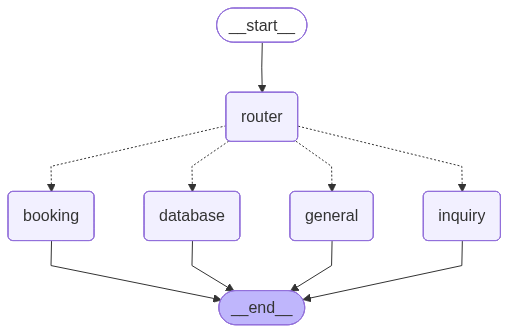
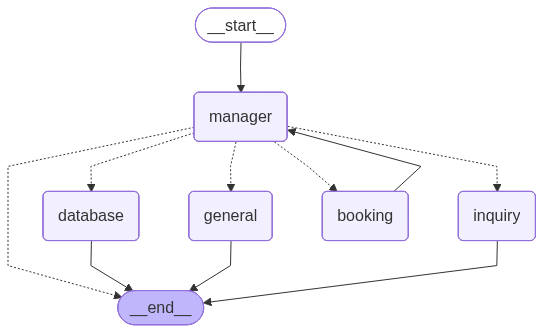
fix: recursively calling general, database, and inquiry node

diff --git a/core/graph/agent/manager.py b/core/graph/agent/manager.py
@@ -1,6 +1,7 @@
 from pydantic import BaseModel, Field
 from typing import Literal
 from langchain_core.prompts import ChatPromptTemplate
+from langchain_core.messages import AIMessage
 
 from core.services.deepinfra.factory import make_deepinfra_client
 from core.graph.state import GraphState
@@ -8,7 +9,7 @@ from core.graph.state import GraphState
 class Decision(BaseModel):
     next_step: Literal["inquiry", "database", "booking", "general", "FINISH"] = Field(
         ...,
-        description="The worker node to call next, or `FINISH` if the AI should stop and wait for user input."
+        description="Langkah selanjutnya atau 'FINISH'."
     )
 
 class ManagerAgent:
@@ -16,24 +17,26 @@ class ManagerAgent:
         self.llm = make_deepinfra_client(model_id).model
         self.structured_llm = self.llm.with_structured_output(Decision)
 
-        self.system_prompt = """You are the Supervisor (Manager) of a Dermatology Clinic AI.
-        You manage a team of workers:
-        1. **inquiry**: Answers questions about prices, treatments, and general info.
-        2. **database**: Checks real-time doctor schedules and appointment status.
-        3. **booking**: Handles the appointment creation process (collects Name, Date, etc.).
-        4. **general**: Handles greetings and small talk.
+        self.system_prompt = """Anda adalah Supervisor (Manager) AI Klinik.
+        
+        TUGAS ANDA:
+        Memutuskan siapa yang berbicara selanjutnya berdasarkan pesan TERAKHIR.
 
-        CONTEXT:
-        Booking Active: {booking_status}
+        PEKERJA:
+        - inquiry, database, booking, general.
+        - FINISH: Gunakan ini untuk berhenti dan menunggu input user.
 
-        YOUR GOAL:
-        Decide the NEXT step based on the conversation history.
+        ATURAN PENTING UNTUK MENCEGAH LOOP:
+        1. **CEK PESAN TERAKHIR**:
+           - Jika pesan terakhir adalah dari **AI (Assistant)**: Outputkan **FINISH**.
+           - (Kecuali jika Anda perlu memanggil agen lain secara berantai, misal: User tanya harga DAN booking).
+        
+        2. **JANGAN ULANGI**:
+           - Jika user berkata "Halo" dan AI sudah menjawab "Halo", JANGAN panggil 'general' lagi. Outputkan **FINISH**.
 
-        RULES:
-        - If the last message was a question from a worker (e.g., Booking asked "What is your name?"), output **FINISH** to wait for the user.
-        - If the user asks multiple things (e.g., "Price and Book"), schedule the **inquiry** first, then the **booking**.
-        - If 'Booking Active' is TRUE, prioritize **booking** UNLESS the user asks a specific question (Interruption) -> then send to **inquiry** or **database**.
-        - If the user just says "Hello", send to **general**."""
+        3. **CHAINING**:
+           - Jika User minta "Cek harga lalu booking", dan 'inquiry' baru saja menjawab harga -> Panggil 'booking'.
+           - Jika 'booking' baru saja bertanya "Siapa nama Anda?" -> Outputkan **FINISH**."""
 
         self.prompt = ChatPromptTemplate.from_messages([
             ("system", self.system_prompt),
@@ -44,14 +47,23 @@ class ManagerAgent:
 
     def __call__(self, state: GraphState):
         is_active = state.get("booking_active", False)
+        messages = state.get("messages", [])
+        last_message = messages[-1] if messages else None
+
+        if isinstance(last_message, AIMessage):
+            print("🔍 Pesan terakhir dari AI. Memeriksa apakah perlu lanjut...")
 
         try:
             decision = self.chain.invoke({
-                "messages": state["messages"],
+                "messages": messages,
                 "booking_status": str(is_active)
             })
 
-            next_step = decision.next_step
+            if decision is None:
+                print("⚠ Manager returned None. Fallback to 'general'.")
+                next_step = "general"
+            else:
+                next_step = decision.next_step
         except Exception as e:
             print(f"Manager error: {e}")
             next_step = "general"

diff --git a/core/graph/workflow.py b/core/graph/workflow.py
@@ -2,44 +2,49 @@ from langgraph.graph import START, END, StateGraph
 from langgraph.checkpoint.memory import MemorySaver
 
 from core.graph.state import GraphState
-from core.graph.constant import ROUTER, GENERAL, INQUIRY, BOOKING, DATABASE
-from core.graph.node import GeneralNode, InquiryNode, RouterNode, BookingNode, SQLNode
+from core.graph.constant import ROUTER, GENERAL, INQUIRY, BOOKING, DATABASE, MANAGER
+from core.graph.node import GeneralNode, InquiryNode, RouterNode, BookingNode, SQLNode, ManagerNode
 
 def build_graph():
     workflow = StateGraph(GraphState)
     
-    router_node = RouterNode()
+    manager_node = ManagerNode()
     general_node = GeneralNode()
     inquiry_node = InquiryNode()
     sql_node = SQLNode()
     booking_node = BookingNode()
 
-    workflow.add_node(ROUTER, router_node)
+    workflow.add_node(MANAGER, manager_node)
     workflow.add_node(GENERAL, general_node)
     workflow.add_node(INQUIRY, inquiry_node)
     workflow.add_node(DATABASE, sql_node)
     workflow.add_node(BOOKING, booking_node)
     
-    workflow.add_edge(START, ROUTER)
-    
-    def route_decision(state):
-        return state.get("next_step", GENERAL)
+    workflow.add_edge(START, MANAGER)
+
+    def manager_routing(state: GraphState):
+        step = state.get("next_step")
+
+        if step == "FINISH":
+            return END
+        return step
 
     workflow.add_conditional_edges(
-        ROUTER,
-        route_decision,
+        MANAGER,
+        manager_routing,
         {
             INQUIRY: INQUIRY,
             DATABASE: DATABASE,
+            BOOKING: BOOKING,
             GENERAL: GENERAL,
-            BOOKING: BOOKING
+            END: END
         }
     )
 
+    workflow.add_edge(BOOKING, MANAGER)
+    workflow.add_edge(DATABASE, END)
     workflow.add_edge(INQUIRY, END)
     workflow.add_edge(GENERAL, END)
-    workflow.add_edge(DATABASE, END)
-    workflow.add_edge(BOOKING, END)
     
     checkpointer = MemorySaver()
 

diff --git a/core/graph/node/__init__.py b/core/graph/node/__init__.py
@@ -3,5 +3,6 @@ from .router import RouterNode
 from .inquiry import InquiryNode
 from .sql import SQLNode
 from .booking import BookingNode
+from .manager import ManagerNode
 
-__all__ = ["GeneralNode", "RouterNode", "InquiryNode", "SQLNode", "BookingNode"]
+__all__ = ["GeneralNode", "RouterNode", "InquiryNode", "SQLNode", "BookingNode", "ManagerNode"]
